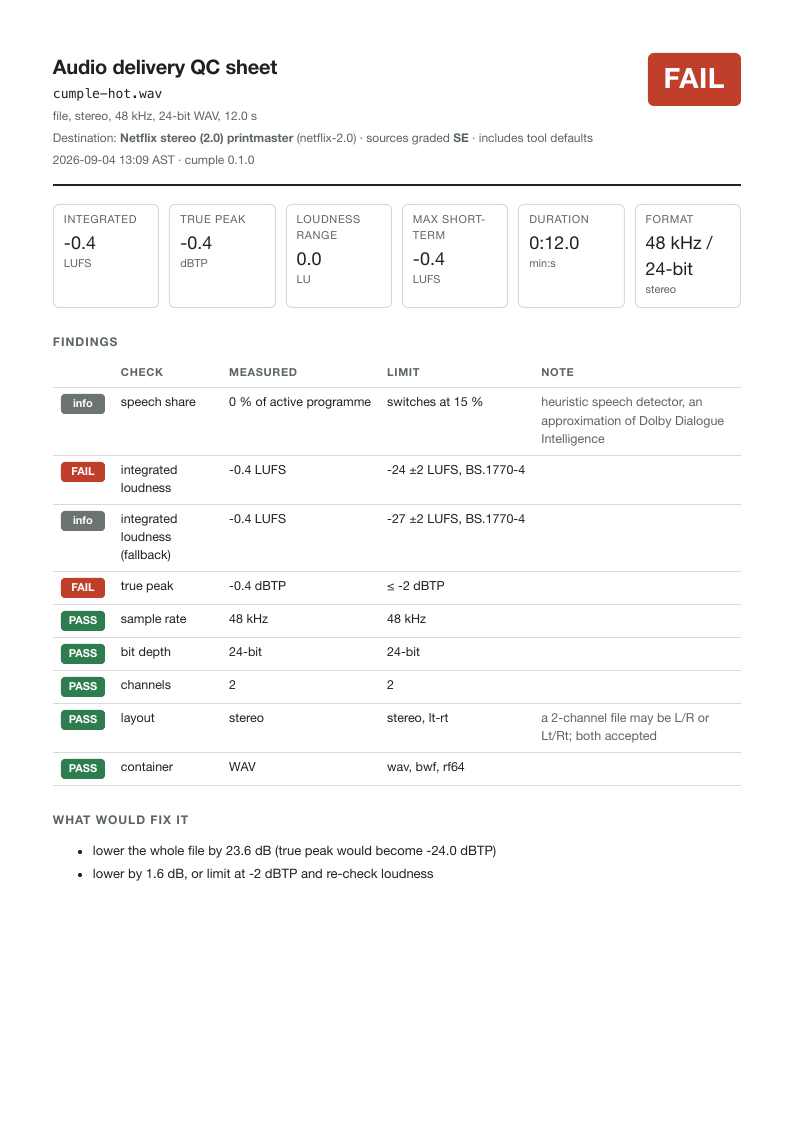
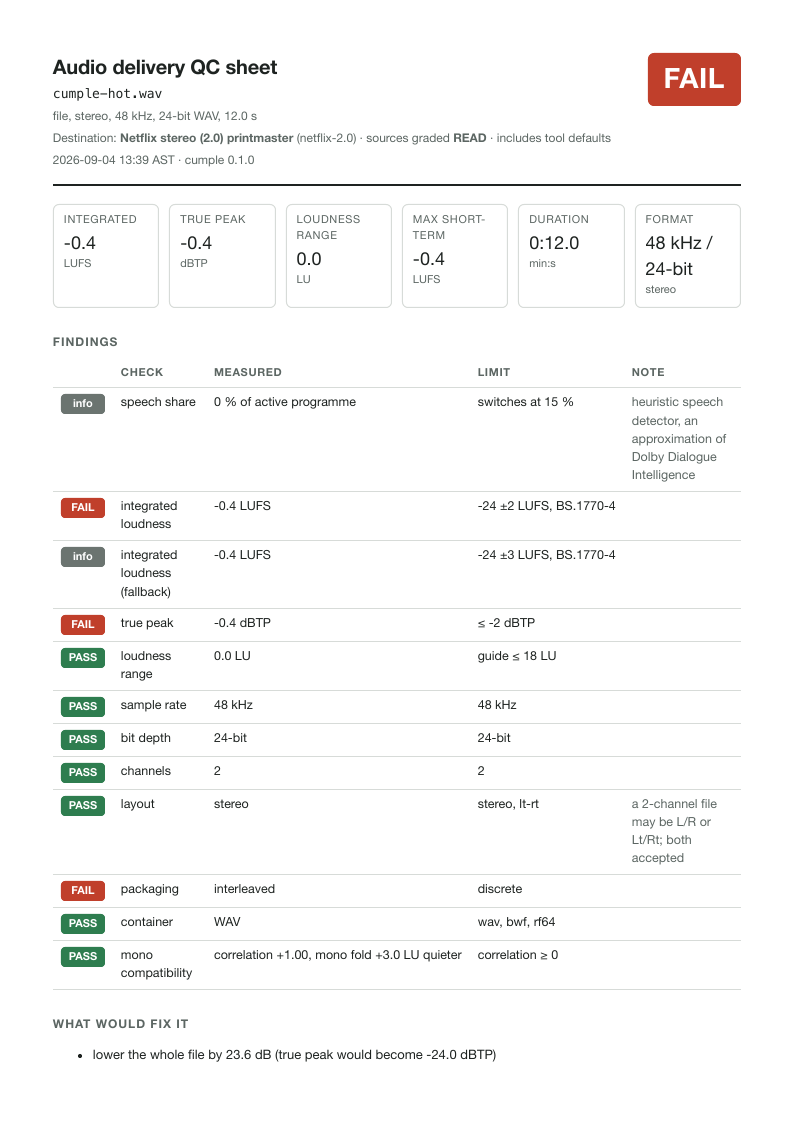
Docs: regenerated benchmark and conformance, README examples, AI_USAGE review section
README examples re-run with the verbatim profiles (an interleaved stereo
bounce now fails Netflix on packaging, and the text says why), the
destination table has 30 rows with READ grades for the three studios,
the honest-limits bullet names the grades that are still weaker, counts
say 126 tests. AI_USAGE.md records the browser re-read and the review
pass. Sheet image regenerated.

Claude-Session: https://claude.ai/code/session_01KDZPTwED763urDUijCuWky

diff --git a/README.md b/README.md
@@ -34,7 +34,7 @@ From a clone, `uv tool install --python 3.12 .` does the same. What you get:
 
 ```
 cumple-hot.wav  file, stereo, 48 kHz, 12.0 s
-against Netflix stereo (2.0) printmaster (netflix-2.0, sources graded SE)
+against Netflix stereo (2.0) printmaster (netflix-2.0, sources graded READ)
        check                   measured                limit                  note
 ────────────────────────────────────────────────────────────────────────────────────────────────────
 info   speech share            0 % of active           switches at 15 %       heuristic speech
@@ -43,24 +43,32 @@ info   speech share            0 % of active           switches at 15 %       he
                                                                               Dialogue Intelligence
 FAIL   integrated loudness     -0.4 LUFS               -24 ±2 LUFS,
                                                        BS.1770-4
-info   integrated loudness     -0.4 LUFS               -27 ±2 LUFS,
+info   integrated loudness     -0.4 LUFS               -24 ±3 LUFS,
        (fallback)                                      BS.1770-4
 FAIL   true peak               -0.4 dBTP               ≤ -2 dBTP
+PASS   loudness range          0.0 LU                  guide ≤ 18 LU
 PASS   sample rate             48 kHz                  48 kHz
 PASS   bit depth               24-bit                  24-bit
 PASS   channels                2                       2
 PASS   layout                  stereo                  stereo, lt-rt          a 2-channel file may
                                                                               be L/R or Lt/Rt; both
                                                                               accepted
+FAIL   packaging               interleaved             discrete
 PASS   container               WAV                     wav, bwf, rf64
+PASS   mono compatibility      correlation +1.00,      correlation ≥ 0
+                               mono fold +3.0 LU
+                               quieter
 FAIL  Netflix stereo (2.0) printmaster
   fix: lower the whole file by 23.6 dB (true peak would become -24.0 dBTP)
   fix: lower by 1.6 dB, or limit at -2 dBTP and re-check loudness
+  fix: split into one mono file per channel
 ```
 
-Exit code 0 on PASS, 1 on FAIL, 2 when the file could not be read. Add
-`--clauses` to print the source's words under each finding, `--sheet` for the
-QC sheet, `--json` for machines.
+The packaging line is a real Netflix clause: original-language masters go up
+as one mono file per channel, so an interleaved stereo bounce fails there even
+when the numbers are right. Exit code 0 on PASS, 1 on FAIL, 2 when the file
+could not be read. Add `--clauses` to print the source's words under each
+finding, `--sheet` for the QC sheet, `--json` for machines.
 
 ## What it measures
 
@@ -111,23 +119,29 @@ package EP101_delivery: 5.1
 
 $ cumple check ./EP101_delivery --spec amazon-5.1-package
 EP101_delivery  package, 5.1, 48 kHz, 20.0 s
-against Amazon MGM Studios 5.1 (discrete mono files) (amazon-5.1-package, sources graded GATED)
-       check                   measured                limit                  note
+against Amazon MGM Studios 5.1 (discrete mono files) (amazon-5.1-package, sources graded READ)
+       check                   measured                limit                   note
 ────────────────────────────────────────────────────────────────────────────────────────────────────
-info   speech share            100 % of active         switches at 15 %       heuristic speech
-                               programme                                      detector, ...
-FAIL   dialogue-gated          -19.9 LKFS              -27 ±2 LKFS,           approximation of
-       loudness                                        BS.1770-1              Dialogue Intelligence:
-                                                                              heuristic speech gate,
-                                                                              143 speech blocks,
-                                                                              BS.1770-1 (no relative
-                                                                              gate)
+info   speech share            100 % of active         switches at 15 %        heuristic speech
+                               programme                                       detector, ...
+FAIL   dialogue-gated          -19.9 LKFS              -27 ±2 LKFS,            approximation of
+       loudness                                        BS.1770-1               Dialogue Intelligence:
+                                                                               heuristic speech gate,
+                                                                               143 speech blocks,
+                                                                               BS.1770-1 (no relative
+                                                                               gate)
 PASS   true peak               -4.2 dBTP               ≤ -2 dBTP
 PASS   sample rate             48 kHz                  48 kHz
 PASS   channels                6                       6
 PASS   layout                  5.1 (L, R, C, LFE,      5.1
                                Ls, Rs)
 PASS   packaging               discrete                discrete
+PASS   LFE content             -39.3 dB of its         below -15 dB (tool      checked above 240 Hz,
+                               energy above 240 Hz     default)                one octave over the
+                                                                               120 Hz corner, where
+                                                                               a 24 dB/octave
+                                                                               low-pass leaves -24 dB
+PASS   head padding            0.00 s                  ≤ 2 s
 FAIL  Amazon MGM Studios 5.1 (discrete mono files)
   fix: lower the whole file by 7.1 dB (true peak would become -11.3 dBTP)
 ```
@@ -149,9 +163,9 @@ sources with their grades and retrieval dates.
 $ cumple watch ~/Bounces --spec netflix-2.0
 watching /Users/me/Bounces against Netflix stereo (2.0) printmaster; files are measured 5 s after
 they stop growing
-FAIL cumple-hot.wav  -0.4 LUFS, -0.4 dBTP  integrated loudness, true peak  → cumple-hot.qc.html
-PASS cumple-ok.wav  -26.5 LUFS, -26.5 dBTP  → cumple-ok.qc.html
-FAIL cumple-v12.wav  -16.0 LUFS, -7.5 dBTP  integrated loudness  → cumple-v12.qc.html
+FAIL cumple-hot.wav  -0.4 LUFS, -0.4 dBTP  integrated loudness, true peak, packaging  → cumple-hot.qc.html
+FAIL cumple-ok.wav  -26.5 LUFS, -26.5 dBTP  packaging  → cumple-ok.qc.html
+FAIL cumple-v12.wav  -16.0 LUFS, -7.5 dBTP  integrated loudness, packaging  → cumple-v12.qc.html
 ```
 
 Every file that lands gets a sheet next to it and a line in `cumple-log.csv`
@@ -234,15 +248,17 @@ calls the same `cumple check --sheet --pdf`; no terminal involved.
 | id | destination | loudness | peak | grade |
 |---|---|---|---|---|
 | `aes-td1008-speech` | AES TD1008 streaming, speech-anchored | -19 to -17 dialogue-gated | -1 dBTP | READ |
-| `amazon-5.1-package` | Amazon MGM Studios 5.1 (discrete mono files) | -27 ±2 dialogue-gated | -2 dBTP | GATED* |
+| `amazon-2.0-package` | Amazon MGM Studios 2.0 (discrete mono files) | -27 ±2 dialogue-gated | -2 dBTP | READ* |
+| `amazon-5.1-package` | Amazon MGM Studios 5.1 (discrete mono files) | -27 ±2 dialogue-gated | -2 dBTP | READ* |
 | `amazon-pvd` | Prime Video Direct mezzanine audio | -24 ±2 integrated | -2 dBTP | READ |
 | `apple-tv` | Apple TV+ / Apple TV app | -31 to -10 dialogue-gated; -31 to -5 integrated (speech < 15 %) | -1 dBTP | READ* |
 | `atsc-a85-streaming` | ATSC A/85:2026 Annex L streaming range | -27 to -23 dialogue-gated or -27 to -23 integrated (speech < 15 %) | -2 dBTP | READ |
-| `disney-plus` | Disney+ near-field mix | -27 ±2 dialogue-gated or -24 ±2 integrated (speech < 15 %) | -2 dBTP | SE* |
+| `disney-plus-2.0` | Disney+ near-field 2.0 stereo | -24 ±0.4 integrated | -2 dBTP | READ |
+| `disney-plus-5.1` | Disney+ near-field 5.1, 7.1 and Atmos | -27 ±0.4 dialogue-gated; -24 ±0.4 integrated (speech < 15 %); ≤ -20 integrated | -2 dBTP | READ |
 | `hulu-2018` | Hulu content partner guidebook (2018, stale) | -24 ±2 integrated | -2 dBFS sample | READ |
 | `max-wbd` | Warner Bros. Discovery / Max component audio | -24 ±2 dialogue-gated or -24 ±2 integrated | -2 dBTP | READ |
-| `netflix-2.0` | Netflix stereo (2.0) printmaster | -27 ±2 dialogue-gated or -24 ±2 integrated (speech < 15 %) | -2 dBTP | SE* |
-| `netflix-5.1` | Netflix 5.1 near-field printmaster | -27 ±2 dialogue-gated or -24 ±2 integrated (speech < 15 %) | -2 dBTP | SE* |
+| `netflix-2.0` | Netflix stereo (2.0) printmaster | -27 ±2 dialogue-gated or -24 ±2 integrated (speech < 15 %) | -2 dBTP | READ* |
+| `netflix-5.1` | Netflix 5.1 near-field printmaster | -27 ±2 dialogue-gated or -24 ±2 integrated (speech < 15 %) | -2 dBTP | READ* |
 | `paramount-pluto` | Paramount Global content delivery (Pluto TV ingest) | -24 ±2 integrated | -2 dBFS sample | READ* |
 | `arib-tr-b32` | ARIB TR-B32 (Japan television) | -24 ±1 integrated | -1 dBTP | SECONDARY |
 | `atsc-a85-2026` | ATSC A/85:2026 television (US) | -24 ±2 dialogue-gated or -24 ±2 integrated (speech < 15 %) | -2 dBTP | READ |
@@ -322,7 +338,7 @@ silent the profile says so.
   side by side. [docs/BENCHMARK.md](docs/BENCHMARK.md).
 - **Performance**: a 60-minute stereo file and a 30-minute 5.1 file, wall time
   and peak memory. [docs/PERF.md](docs/PERF.md).
-- **Tests**: 112, 92 % line coverage on `src/`, run with `uv run pytest`. The
+- **Tests**: 126, 92 % line coverage on `src/`, run with `uv run pytest`. The
   EBU cases run when the test set is in `~/.cache/cumple/` (it is free but not
   redistributed; see CONTRIBUTING).
 - **Manual QA** on real bounces is logged in [docs/QA.md](docs/QA.md).
@@ -334,10 +350,13 @@ silent the profile says so.
   differ from a Dolby meter by more than the ±2 LU window. The speech share and
   the number of speech blocks are printed next to every dialogue-gated value
   so you can judge, and the full-programme value is always shown beside it.
-- Netflix, Disney+ and Amazon Studios specs live behind partner portals or
-  JavaScript apps. Their profiles are graded SE or GATED and their clauses are
-  paraphrases until a verbatim reading is possible. Treat the grade as part of
-  the result.
+- The Netflix, Disney+ and Amazon MGM Studios pages are JavaScript apps that
+  refuse command-line fetchers; they were read in a browser on 2026-09-04 and
+  their clauses are quoted verbatim. Weaker grades remain where the source is
+  weaker: ARIB TR-B32 (SECONDARY, from an AES summary table), YouTube
+  (COMMUNITY, the platform publishes nothing), Hulu (a 2018 document), and
+  every profile with an asterisk carries a tool default. Treat the grade as
+  part of the result.
 - No Dolby Atmos or ADM checks yet: cumple reads BWF metadata but does not
   validate beds, objects or `chna` track mappings.
 - Reads what libsndfile reads: WAV, BWF, RF64, AIFF, FLAC, and others. It does

diff --git a/AI_USAGE.md b/AI_USAGE.md
@@ -49,13 +49,18 @@ says the same.
   Hulu, NBCUniversal, Spotify, SoundCloud, Apple Podcasts and ACX pages) and
   a survey of what already exists in open source and in commercial QC tools.
   Every profile records where each number came from and how good that access
-  was, with a grade from READ to COMMUNITY.
+  was, with a grade from READ to COMMUNITY. The first pass could reach the
+  Netflix, Disney+ and Amazon MGM Studios pages only through search extraction
+  (graded SE and GATED); a browser session the next day read all three
+  directly, and their clauses are now quoted verbatim (grade READ), which
+  changed real numbers: Disney's tolerance is ±0.4 LU, not the assumed ±2, and
+  Netflix requires one mono file per channel.
 - **Code.** The BS.1770-5 meter with K-weighting re-derived at any sample
   rate, the true-peak filter from the ITU table, loudness range, the speech
   detector, Leq(m) from the TASA response table, the rules engine with
   either/or rules and the speech switch, the audio diff, the watch folder,
-  the gain-only fix, the QC sheet, the macOS droplet, 28 profiles.
-- **Tests and benchmarks.** 112 tests, including synthetic signals with
+  the gain-only fix, the QC sheet, the macOS droplet, 30 profiles.
+- **Tests and benchmarks.** 126 tests, including synthetic signals with
   analytic answers and the official EBU cases; cross-checks against ffmpeg's
   `ebur128` filter, pyloudnorm and an independently designed interpolator;
   the scripts that regenerate `docs/CONFORMANCE.md`, `docs/BENCHMARK.md` and
@@ -90,6 +95,22 @@ dialogue in music-heavy programmes (now the 5th percentile plus 3 dB, with a
 one-second dilation); the metadata reader reports an unset BWF loudness
 field as 327.67, which had to be recognised as "unset" rather than as a
 loudness value.
+
+## A second pair of eyes, also a model
+
+Before the repository went public, a separate Claude agent reviewed the source
+tree read-only, with instructions to confirm every finding by running the code
+and to drop anything it could not confirm. It reported seventeen findings,
+three of them serious: `fix --out` pointed at the source file truncated the
+source; a Broadcast WAV whose metadata carries a UMID crashed the JSON output,
+which also made the watch folder skip such files silently; and 7-, 10- and
+12-channel files weighted the LFE like a screen channel, a 2.5 LU error on a
+7.1.2 bed. The rest ranged from a watcher that died when a bounce was moved
+away mid-poll to a duration that could print as 0:60.0. All seventeen were
+fixed in one commit; fourteen carry a test that pins the corrected behaviour,
+and the other three were one-line changes (a rounding rule, an inert option,
+a clamped option). Victor did not find these; the process did, and the
+process is part of how the tool was built.
 
 ## The day-to-day pattern
 

diff --git a/docs/CONFORMANCE.md b/docs/CONFORMANCE.md
@@ -1,6 +1,6 @@
 # Conformance report for cumple 0.1.0
 
-Generated 2026-09-03. Tolerances are the published ones: EBU Tech 3341 ±0.1 LU for loudness and +0.2/−0.4 dB for true peak; EBU Tech 3342 ±1 LU for loudness range; TASA Standard §1.4.2 per-frequency tolerances for the M-weighting. The EBU Loudness Test Set v5.0 is free from tech.ebu.ch and is not redistributed here.
+Generated 2026-09-04. Tolerances are the published ones: EBU Tech 3341 ±0.1 LU for loudness and +0.2/−0.4 dB for true peak; EBU Tech 3342 ±1 LU for loudness range; TASA Standard §1.4.2 per-frequency tolerances for the M-weighting. The EBU Loudness Test Set v5.0 is free from tech.ebu.ch and is not redistributed here.
 
 ## EBU Tech 3341: loudness and true peak
 
@@ -63,12 +63,12 @@ Generated 2026-09-03. Tolerances are the published ones: EBU Tech 3341 ±0.1 LU 
 | 3341-13 | seq-3341-13-8-24bit.wav.wav | max M | -23.0 | -22.99 | ✓ |
 | 3341-13 | seq-3341-13-9-24bit.wav.wav | max M | -23.0 | -22.99 | ✓ |
 | 3341-14 | seq-3341-14-24bit.wav.wav | max M | -19.0 | -18.99 | ✓ |
-| 3341-15 | seq-3341-15-24bit.wav.wav | true peak | -6.0 dBTP | -6.20 | ✓ |
+| 3341-15 | seq-3341-15-24bit.wav.wav | true peak | -6.0 dBTP | -6.00 | ✓ |
 | 3341-16 | seq-3341-16-24bit.wav.wav | true peak | -6.0 dBTP | -5.96 | ✓ |
 | 3341-17 | seq-3341-17-24bit.wav.wav | true peak | -6.0 dBTP | -6.30 | ✓ |
 | 3341-18 | seq-3341-18-24bit.wav.wav | true peak | -6.0 dBTP | -6.01 | ✓ |
 | 3341-19 | seq-3341-19-24bit.wav.wav | true peak | +3.0 dBTP | +3.05 | ✓ |
-| 3341-20 | seq-3341-20-24bit.wav.wav | true peak | +0.0 dBTP | -0.15 | ✓ |
+| 3341-20 | seq-3341-20-24bit.wav.wav | true peak | +0.0 dBTP | -0.13 | ✓ |
 | 3341-21 | seq-3341-21-24bit.wav.wav | true peak | +0.0 dBTP | -0.08 | ✓ |
 | 3341-22 | seq-3341-22-24bit.wav.wav | true peak | +0.0 dBTP | -0.20 | ✓ |
 | 3341-23 | seq-3341-23-24bit.wav.wav | true peak | +0.0 dBTP | -0.08 | ✓ |
@@ -94,12 +94,12 @@ Full-scale tones with 50 ms fades, sampled so the peak falls between samples. Th
 
 | tone | sample peak dBFS | ITU filter dBTP | Kaiser-512 dBTP | ideal |
 |---|---|---|---|---|
-| 0.5 kHz | +0.00 | +0.01 | -0.00 | 0.00 |
-| 1 kHz | +0.00 | +0.01 | -0.00 | 0.00 |
-| 2 kHz | +0.00 | -0.01 | -0.00 | 0.00 |
+| 0.5 kHz | +0.00 | +0.01 | +0.00 | 0.00 |
+| 1 kHz | +0.00 | +0.01 | +0.00 | 0.00 |
+| 2 kHz | +0.00 | +0.00 | +0.00 | 0.00 |
 | 8 kHz | -1.25 | -0.30 | -0.07 | 0.00 |
 | 12 kHz | -3.01 | +0.04 | -0.17 | 0.00 |
-| 20 kHz | +0.00 | -0.14 | -0.02 | 0.00 |
+| 20 kHz | +0.00 | +0.00 | +0.00 | 0.00 |
 
 ## Leq(m): M-weighting response against the TASA table
 

diff --git a/docs/BENCHMARK.md b/docs/BENCHMARK.md
@@ -12,11 +12,11 @@ Generated 2026-09-04 with cumple 0.1.0, `ffmpeg version 8.0 Copyright (c) 2000-2
 | seq-3341-6-5channels-16bit.wav | I -23 | -23.02 ✓ | -23.00 ✓ | -23.06 ✓ | -24.00 | -28.00 | 0.00 | 0.00 |
 | seq-3341-6-6channels-WAVEEX-16bit.wav | I -23 | -23.02 ✓ | -23.00 ✓ | -23.06 ✓ | -24.00 | -28.00 | 0.00 | 0.00 |
 | seq-3341-7_seq-3342-5-24bit.wav | I -23 LRA 5 | -22.99 ✓ | -23.00 ✓ | -23.03 ✓ | -8.90 | -9.10 | 4.98 ✓ | 5.00 ✓ |
-| seq-3341-2011-8_seq-3342-6-24bit-v02.wav | I -23 LRA 15 | -23.00 ✓ | -23.00 ✓ | -23.04 ✓ | -2.66 | -2.60 | 15.01 ✓ | 15.00 ✓ |
-| seq-3341-15-24bit.wav.wav | TP -6 | -2.70 | -2.70 | -2.74 | -6.20 ✓ | -6.00 ✓ | 0.09 | 20.10 |
+| seq-3341-2011-8_seq-3342-6-24bit-v02.wav | I -23 LRA 15 | -23.00 ✓ | -23.00 ✓ | -23.04 ✓ | -2.64 | -2.60 | 15.01 ✓ | 15.00 ✓ |
+| seq-3341-15-24bit.wav.wav | TP -6 | -2.70 | -2.70 | -2.74 | -6.00 ✓ | -6.00 ✓ | 0.09 | 20.10 |
 | seq-3341-16-24bit.wav.wav | TP -6 | -2.70 | -2.70 | -2.74 | -5.96 ✓ | -6.00 ✓ | 0.09 | 20.10 |
 | seq-3341-19-24bit.wav.wav | TP +3 | 6.31 | 6.30 | 6.27 | 3.05 ✓ | 3.00 ✓ | 0.09 | 20.10 |
-| seq-3341-20-24bit.wav.wav | TP +0 | -2.70 | -2.70 | -2.74 | -0.15 ✓ | -0.10 ✓ | 0.09 | 20.10 |
+| seq-3341-20-24bit.wav.wav | TP +0 | -2.70 | -2.70 | -2.74 | -0.13 ✓ | -0.10 ✓ | 0.09 | 20.10 |
 | seq-3341-23-24bit.wav.wav | TP +0 | -2.70 | -2.70 | -2.74 | -0.08 ✓ | -0.10 ✓ | 0.09 | 20.10 |
 | seq-3342-1-16bit.wav | LRA 10 | -22.59 | -22.60 | -22.63 | -19.99 | -20.00 | 10.00 ✓ | 10.00 ✓ |
 | seq-3342-2-16bit.wav | LRA 5 | -16.81 | -16.80 | -16.85 | -14.99 | -15.00 | 5.00 ✓ | 5.00 ✓ |

diff --git a/CONTRIBUTING.md b/CONTRIBUTING.md
@@ -9,7 +9,7 @@ destination, or report a number that disagrees with a published document.
 git clone https://github.com/victor10days/cumple
 cd cumple
 uv sync            # Python 3.12, runtime and dev dependencies
-uv run pytest      # 112 tests; the 29 EBU cases skip until you fetch the test set
+uv run pytest      # 126 tests; the 29 EBU cases skip until you fetch the test set
 uv run ruff check src tests scripts && uv run ruff format --check src tests scripts
 ```
 

diff --git a/docs/QA.md b/docs/QA.md
@@ -1,7 +1,7 @@
 # Manual QA log
 
 Hands-on checks on real bounces, done by a person, recorded here with a date.
-The automated suite (`uv run pytest`, 112 tests) and the conformance report
+The automated suite (`uv run pytest`, 126 tests) and the conformance report
 cover the measurement; this log covers the surfaces an engineer actually
 touches. An item without a dated entry has **not** been done.
 
